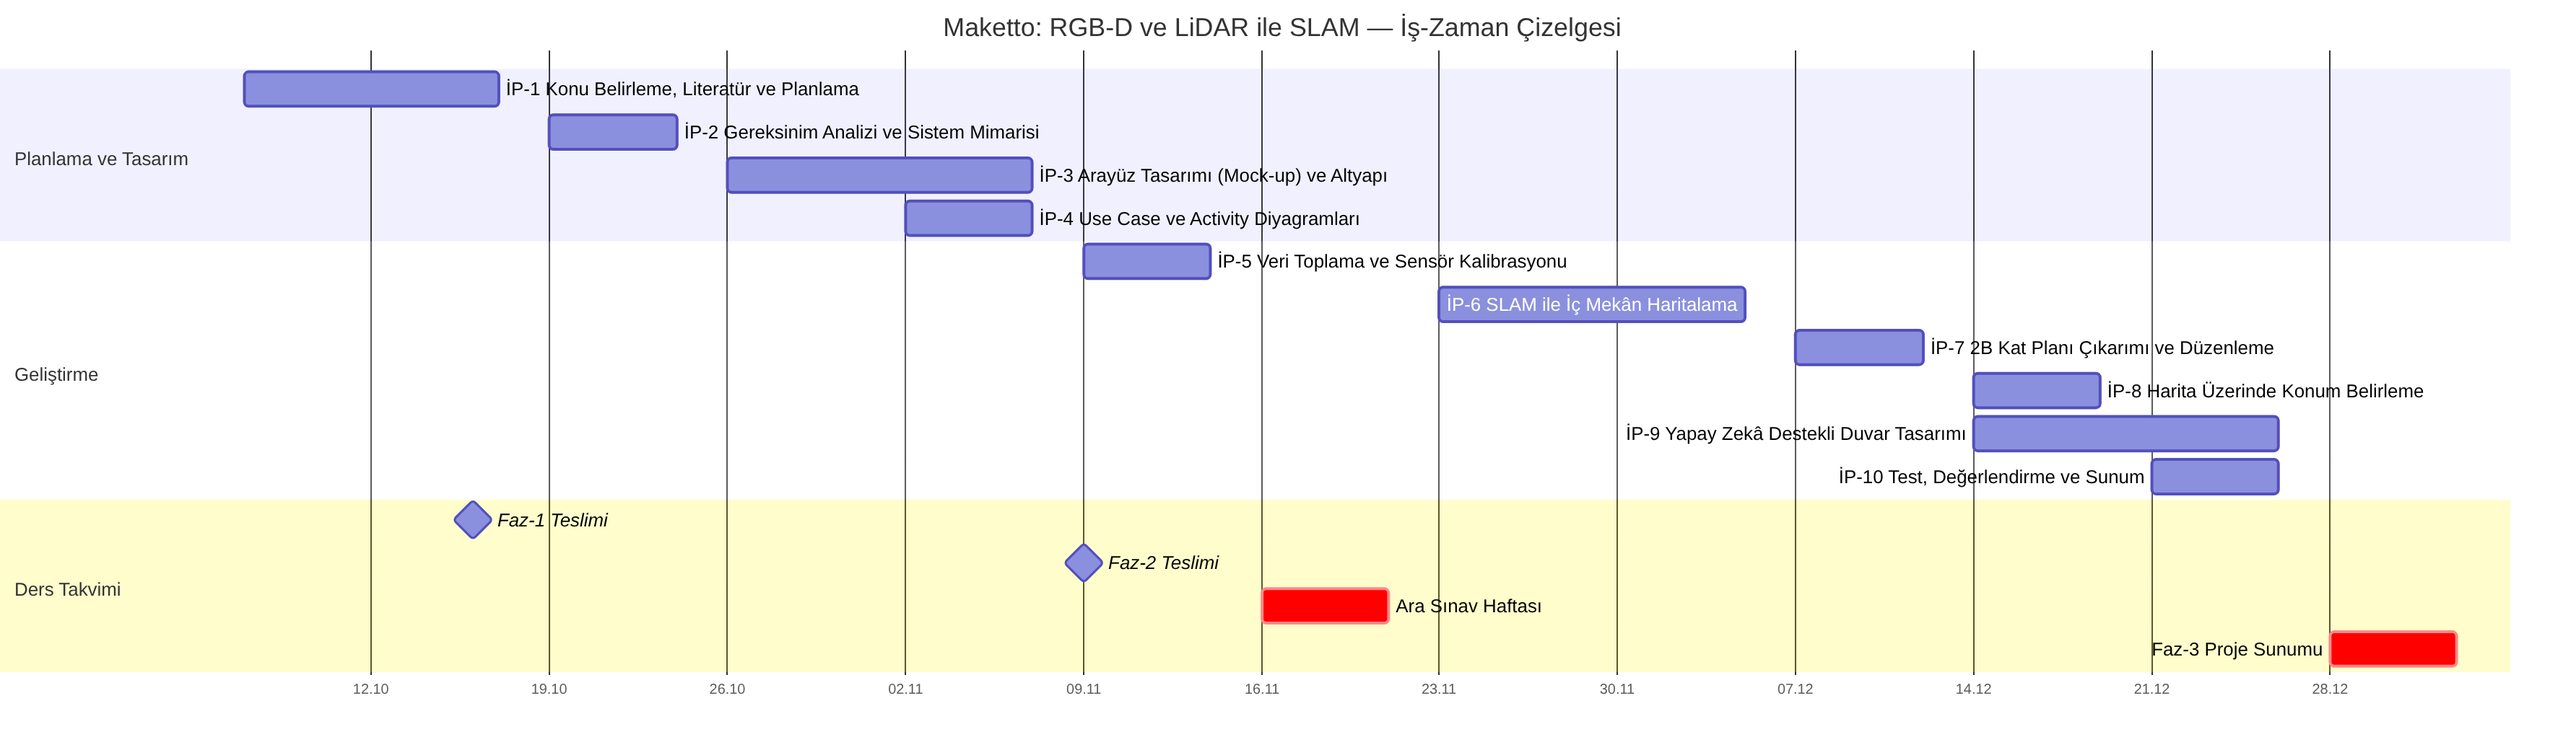
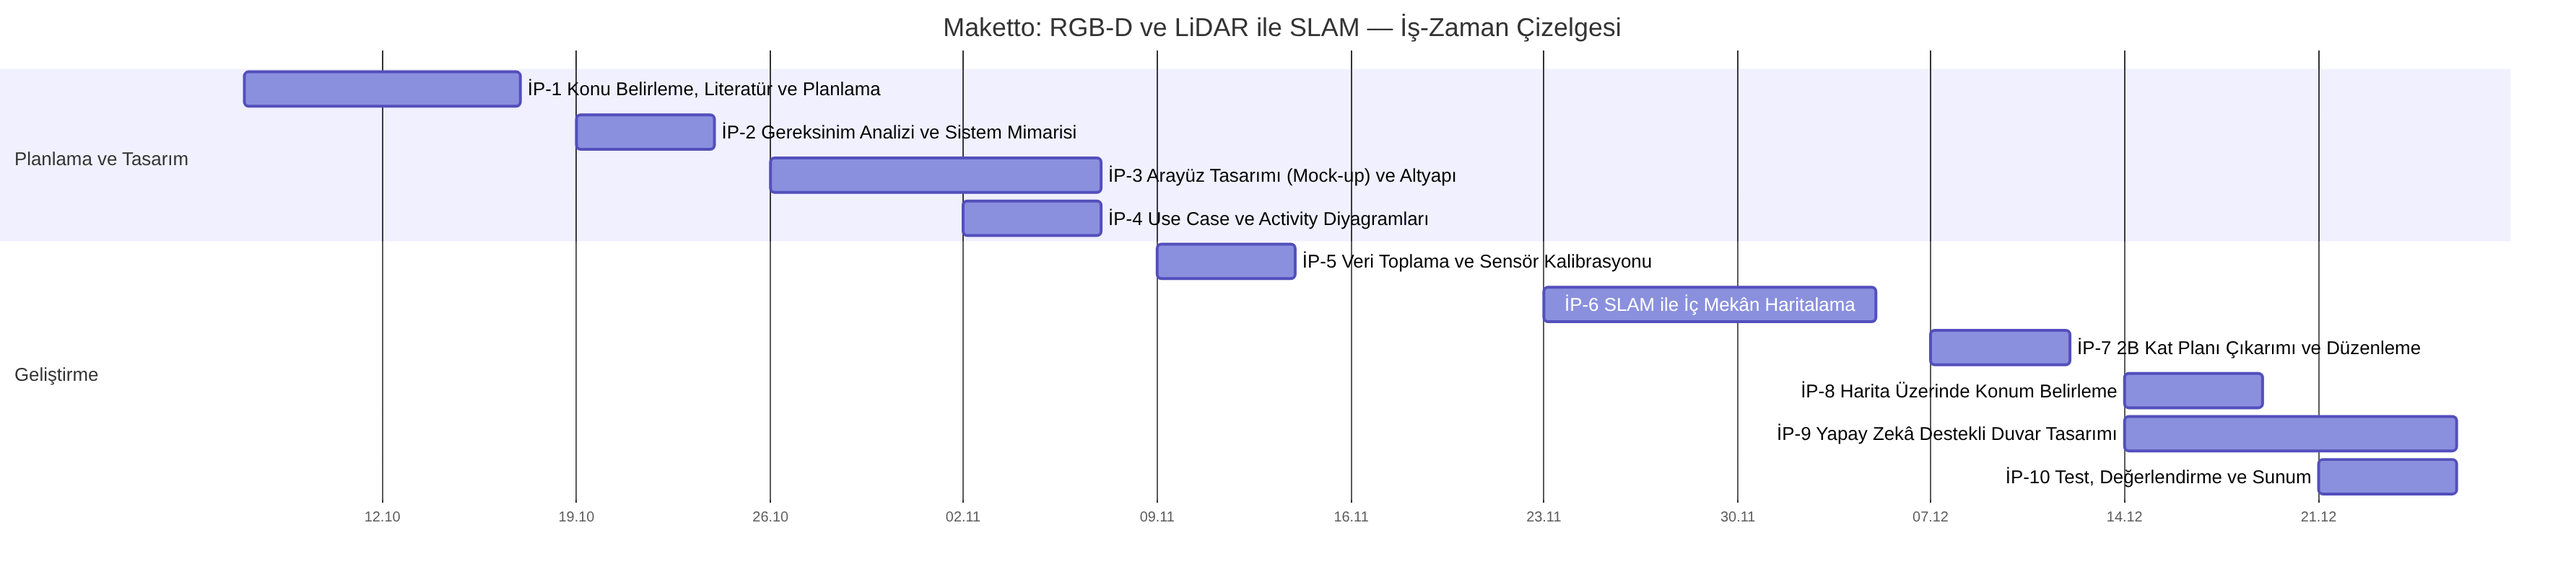
Drop the course calendar from the Gantt plan
Remove the Faz milestones, midterm week and presentation rows from the
chart and the delivery schedule table from GANTT.md, so the plan shows
only the ten work packages. The project period now ends with the last
work package (25.12.2026); docs/gantt.png is re-rendered.

Claude-Session: https://claude.ai/code/session_01Liqkw9b7w5xb7hxMGQjJBP

diff --git a/GANTT.md b/GANTT.md
@@ -8,7 +8,7 @@
 | **Proje Konusu** | RGB-D ve LiDAR ile SLAM |
 | **Proje Adı** | Maketto |
 | **Proje Amacı** | Mobil cihazın RGB-D kamerası ve LiDAR sensörüyle iç mekânın haritasını çıkaran, kullanıcının bu harita üzerindeki konumunu belirleyen ve seçilen duvar için yapay zekâ destekli tasarım önerisi üreten bir mobil uygulama geliştirmek |
-| **Proje Süresi** | 07.10.2026 – 01.01.2027 |
+| **Proje Süresi** | 07.10.2026 – 25.12.2026 |
 | **Referans Çalışma** | Yan, Y.; Li, J.; Liu, Q.; Lv, S.; Wu, Q. *RGB-D SLAM: A Review of Methods and Performance Trade-Offs for Different Requirements.* Sensors 2026, 26(11), 3513. [doi:10.3390/s26113513](https://doi.org/10.3390/s26113513) |
 
 ## Gantt Şeması
@@ -35,12 +35,6 @@ gantt
     İP-8 Harita Üzerinde Konum Belirleme        :2026-12-14, 5d
     İP-9 Yapay Zekâ Destekli Duvar Tasarımı     :2026-12-14, 12d
     İP-10 Test, Değerlendirme ve Sunum          :2026-12-21, 5d
-
-    section Ders Takvimi
-    Faz-1 Teslimi                               :milestone, 2026-10-16, 0d
-    Faz-2 Teslimi                               :milestone, 2026-11-09, 0d
-    Ara Sınav Haftası                           :crit, 2026-11-16, 5d
-    Faz-3 Proje Sunumu                          :crit, 2026-12-28, 5d
 ```
 
 Rapor ve sunumlarda kullanılmak üzere görsel: [`docs/gantt.png`](docs/gantt.png)
@@ -59,12 +53,3 @@ Rapor ve sunumlarda kullanılmak üzere görsel: [`docs/gantt.png`](docs/gantt.p
 | İP-8 | Harita üzerinde konum belirleme (relokalizasyon) | 12 | 14.12.2026 – 18.12.2026 | Kullanıcının plan üzerindeki konumu ve bakış yönü |
 | İP-9 | Duvar görüntüsü üzerinden yapay zekâ destekli tasarım | 12–13 | 14.12.2026 – 25.12.2026 | Seçilen duvar için tasarım önerisi |
 | İP-10 | Sistem testleri, performans değerlendirmesi ve sunum hazırlığı | 13 | 21.12.2026 – 25.12.2026 | Test raporu ve çalışır durumda uygulama |
-
-## Teslim Takvimi
-
-| Aşama | Hafta | Tarih | Kapsam |
-|---|:---:|---|---|
-| Faz-1 | 3 | 16.10.2026 | Gantt şeması ve proje planı |
-| Faz-2 | 7 | 09.11.2026 | Mock-up, Use Case ve Activity diyagramları, fonksiyonel tanım |
-| Ara Sınav | 8 | 16.11.2026 – 20.11.2026 | Bu hafta proje çalışmasına ara verilir |
-| Faz-3 | 14 | 28.12.2026 – 01.01.2027 | Çalışır durumdaki uygulamanın teslimi ve yüz yüze sunumu |
